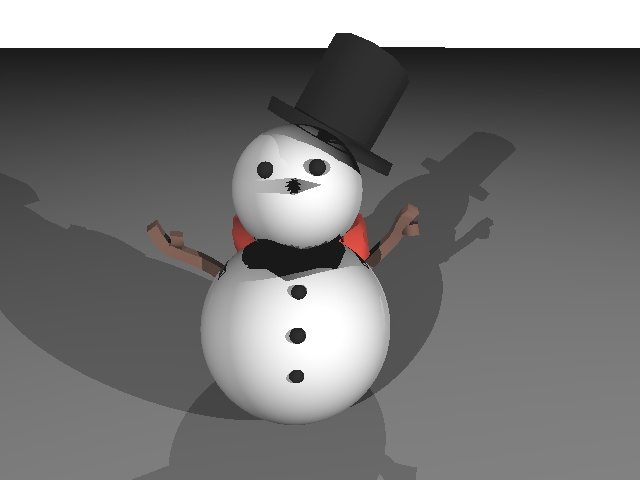
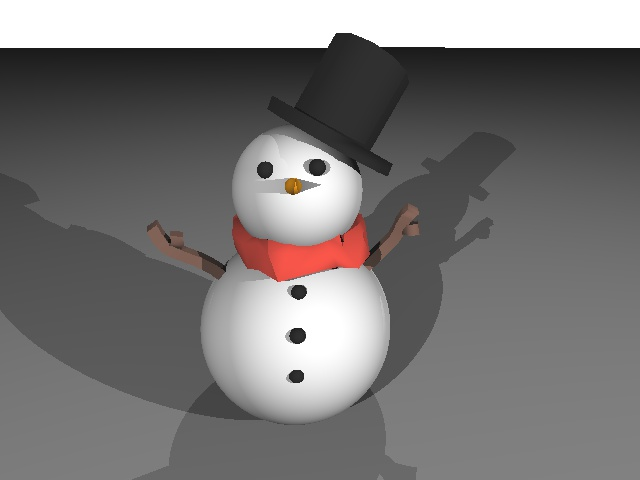
Fix closest ray intersections and update snow render

diff --git a/RayTracer/main.cpp b/RayTracer/main.cpp
@@ -110,6 +110,7 @@ struct Ray {
         tri_intersect = nullptr;
         sph_intersect = nullptr;
         intersect_point = { -1, -1, -1 };
+        t_val = 0.0;
     }
 
     //setter
@@ -298,11 +299,14 @@ void RayIntersectTriangle(const Triangle* in_triangle, Ray& curr_ray)
 
                 //if the t is in "front" of the ray and 
                 //if there is no current intersection or if this current t value is closer to the ray's origin
-                if (new_t_val > 0 && (curr_ray.t_val > new_t_val || curr_ray.tri_intersect == nullptr))
+                if (new_t_val > 0.0 &&
+                    (curr_ray.t_val == 0.0 || new_t_val < curr_ray.t_val))
                 {
                     if(DoesRayIntersectTriangle(this_triangle, curr_ray.ray_origin + new_t_val * curr_ray.ray_direction - arb))
                     {
                         curr_ray.tri_intersect = this_triangle;
+                        curr_ray.sph_intersect = nullptr;
+
                         curr_ray.t_val = new_t_val;
                         curr_ray.intersect_point = curr_ray.ray_origin + (curr_ray.t_val * curr_ray.ray_direction);
                     }
@@ -357,9 +361,12 @@ void RayIntersectSwphere(const Sphere* in_sphere, Ray& curr_ray)
                 else new_t_val = -100.0;
             }
 
-            if (new_t_val > 0 && (curr_ray.t_val > new_t_val || curr_ray.sph_intersect == nullptr))
+            if (new_t_val > 0.0 &&
+                (curr_ray.t_val == 0.0 || new_t_val < curr_ray.t_val))
             {
                 curr_ray.sph_intersect = this_sphere;
+                curr_ray.tri_intersect = nullptr;
+
                 curr_ray.t_val = new_t_val;
                 curr_ray.intersect_point = curr_ray.ray_origin + (curr_ray.t_val * curr_ray.ray_direction);
             }
